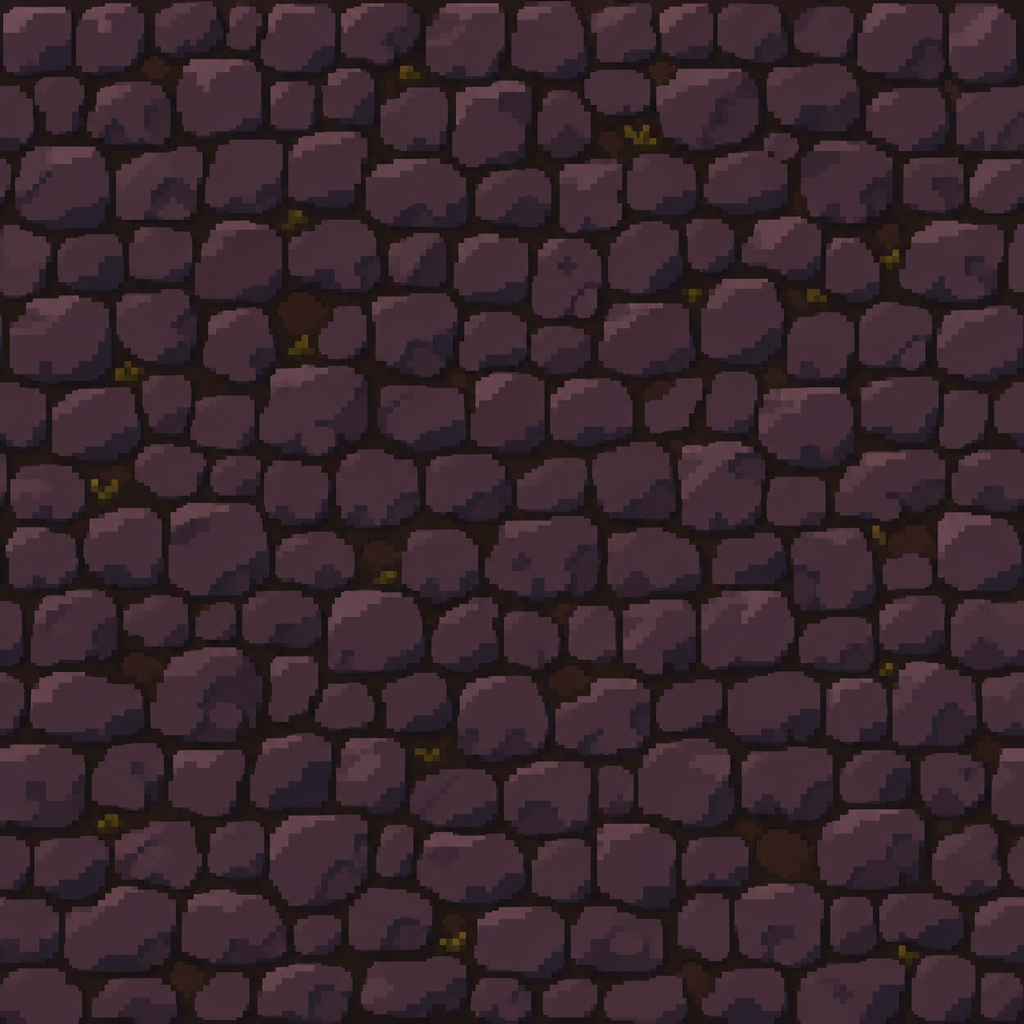
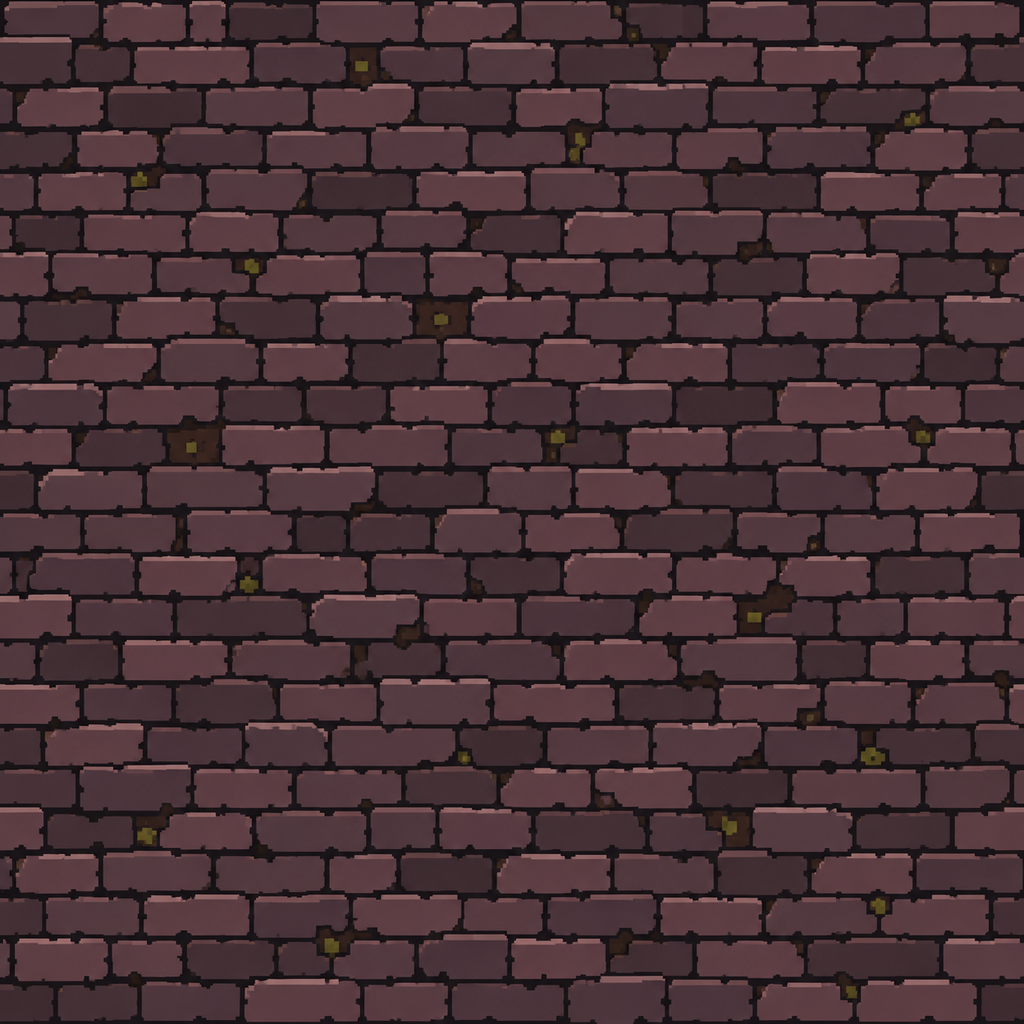
Town polish round: small setts, wall edge, niche candles, neutral shadows, blue altar (task 1005)

diff --git a/live/scene.js b/live/scene.js
@@ -706,9 +706,11 @@ void main(){ vec2 q = v_uv * 2.0 - 1.0; float r = length(q), a = atan(q.y, q.x);
   // the town's lights by kind (TASKS 1005): r, colour, strength, dy over the prop's foot, a hot core, and the glow on the art itself
   // [dx, dy, r, alpha]; warm lanterns and the forge, the enchanter's and the altar's cold blue, the crypt's warm breath from below
   // (a light's centre stays on open floor: inside a wall cell the light map's occlusion swallows it)
-  const TOWN_LIGHT = { lamp: { r: 230, col: [1, 0.76, 0.44], amt: 1.05, dy: -30, core: 60, glow: [6, -36, 16, 0.75] }, forge: { r: 150, col: [1, 0.58, 0.22], amt: 1.0, dy: 8, core: 50, glow: [0, -20, 11, 0.6] },
-    runes: { r: 210, col: [0.3, 0.55, 1], amt: 1.0, dy: 0, core: 80, glow: [0, 8, 46, 0.3] }, altar: { r: 200, col: [0.4, 0.68, 1], amt: 1.2, dy: 12, core: 70 },
-    crypt: { r: 110, col: [1, 0.66, 0.32], amt: 0.5, dy: 22 }, adit: { r: 140, col: [1, 0.76, 0.44], amt: 0.75, dy: -10, glow: [6, -48, 12, 0.7] } };
+  const TOWN_LIGHT = { lamp: { r: 220, col: [1, 0.8, 0.32], amt: 1.25, dy: -30, core: 60, glow: [6, -36, 16, 0.75] }, forge: { r: 170, col: [1, 0.55, 0.18], amt: 1.3, dy: 8, core: 60, glow: [0, -18, 17, 0.85] },
+    runes: { r: 190, col: [0.22, 0.45, 1], amt: 1.5, dy: 0, core: 70, glow: [0, 8, 22, 0.3] }, altar: { r: 170, col: [0.22, 0.48, 1], amt: 1.7, dy: 12, core: 70, glow: [0, -14, 30, 0.3] },
+    crypt: { r: 90, col: [1, 0.66, 0.3], amt: 0.3, dy: 40 }, adit: { r: 140, col: [1, 0.8, 0.32], amt: 0.75, dy: -10, glow: [6, -48, 12, 0.7] }, candle: { r: 90, col: [1, 0.72, 0.36], amt: 0.7, dy: -40, core: 30 } };
+  // the setts are painted lighter than the earth round them: under the fire they read as a pink cross (fidelity r2), so a little darker
+  const PAVE_K = 0.78;
   // rail_tw_h's sleeper period in its own pixels: sleepers start every ≈72 px, the first gap's middle at 77 (live/assets size)
   const RAIL = { w: 300, h: 131, u0: 77 / 300, per: 72 };
   const TOWN_PAVE = (m) => m.town.paveSet || Object.defineProperty(m.town, 'paveSet', { value: new Set(m.town.pave), enumerable: false }).paveSet;
@@ -721,7 +723,7 @@ void main(){ vec2 q = v_uv * 2.0 - 1.0; float r = length(q), a = atan(q.y, q.x);
         for (let v = -1; v <= 1; v++) for (let u = -1; u <= 1; u++) if (P.has((y + v) * m.W + x + u)) d = Math.min(d, Math.hypot(Math.max(x + u - px, 0, px - x - u - 1), Math.max(y + v - py, 0, py - y - v - 1)));
         if (d + 0.45 * rnd(x * 4 + i, y * 4 + j) > 0.55) continue;
         const X = x * TILE + i * q, Y = y * TILE + j * q, u0 = (X % TS) / TS, v0 = (Y % TS) / TS;
-        L.sprite(B.pave, X, Y, { w: q, h: q, src: [u0, v0, u0 + q / TS, v0 + q / TS], u: { grade: [1, 0.96, 0, 1] } }); } }
+        L.sprite(B.pave, X, Y, { w: q, h: q, src: [u0, v0, u0 + q / TS, v0 + q / TS], u: { grade: [1, PAVE_K, 0, 1] } }); } }
     // the rails: one sleeper period of the straight piece (a gap's middle to the next, so it repeats without its end caps) laid
     // edge to edge along the line through the rail cells' centres, turned to each stretch, at the piece's own proportions
     const T = m.town, pts = T.rails.map((k) => [(k % m.W + 0.5) * TILE, (Math.floor(k / m.W) + 0.5) * TILE]), RH = 26, RP = RH * RAIL.per / RAIL.h;
@@ -757,7 +759,7 @@ void main(){ vec2 q = v_uv * 2.0 - 1.0; float r = length(q), a = atan(q.y, q.x);
         const v = c(x, y);
         // an accent zone keeps its own stone, near grey and dark (as dark as the tint it lost made it): the colour proper is its hearths'
         // light and the fill, which fades out past the doorway
-        if (v === 1 && m.town) tile(TOWN_PAVE(m).has(y * m.W + x) ? B.pave : B.floor, x, y, { grade: [1, 0.96, 0, 1], tint: [1, 1, 1, 1] });
+        if (v === 1 && m.town) { const pv = TOWN_PAVE(m).has(y * m.W + x); tile(pv ? B.pave : B.floor, x, y, { grade: [1, pv ? PAVE_K : 0.96, 0, 1], tint: [1, 1, 1, 1] }); }
         else if (v === 1 || v === 3) { const z = zoneAt(m, x, y), Z = D.BIOMES[z]; tile(Z.floor, x, y, { grade: [z === m.biome ? 1 : 0.25, 0.96 * (z === m.biome ? 1 : 0.55 * (Z.dim || 1)), 0, 1], tint: [...Z.tint, z === m.biome ? 1 : 0.35] }); }
         else if (v === 0 && (c(x, y + 1) !== 0 || (c(x, y + 2) !== 0 && c(x, y + 2) !== undefined))) tile(B.wall, x, y, { grade: [0.9, 1.05, 0, 1.05], tint: [B.tint[0], B.tint[1], B.tint[2], 1] }, TSW);
         else if (v === 0 && RD[y * m.W + x] <= 3) tile(B.top, x, y, { grade: [0.55, TOP_LIFT, 0, 1], tint: topTint(B) }, TST);
@@ -784,6 +786,8 @@ void main(){ vec2 q = v_uv * 2.0 - 1.0; float r = length(q), a = atan(q.y, q.x);
           if (face) { dark(X, Y + TILE - 4, TILE, 4, 0.5); for (let k = 0; k < 4; k++) dark(X, Y + TILE - 14 + k * 2.5, TILE, 14 - k * 2.5, 0.06);
             if (c(x - 1, y) === 1 || c(x - 1, y + 1) === 1) dark(X, Y, 3, TILE, 0.7); if (c(x + 1, y) === 1 || c(x + 1, y + 1) === 1) dark(X + TILE - 3, Y, 3, TILE, 0.7); }
           if (face2) { dark(X, Y, TILE, 3, 0.75); L.solid(X, Y + 3, TILE, 1, [0.5, 0.45, 0.42], 0, 0, 0, 0.35);
+            // the town's ruins catch the light on their top course (the concept's slate edge, #81676f)
+            if (m.town) { L.solid(X, Y + 3, TILE, 2, [0.51, 0.4, 0.44], 0, 0, 0, 0.85); L.solid(X, Y + 5, TILE, 2, [0.37, 0.29, 0.33], 0, 0, 0, 0.6); }
             if (c(x - 1, y + 1) === 1) dark(X, Y, 3, TILE, 0.7); if (c(x + 1, y + 1) === 1) dark(X + TILE - 3, Y, 3, TILE, 0.7); }
           if (!face && !face2 && near(x, y, 4)) {
             if (c(x, y + 1) === 1) dark(X, Y + TILE - 3, TILE, 3, 0.6);
@@ -1626,7 +1630,7 @@ void main(){ vec2 q = v_uv * 2.0 - 1.0; float r = length(q), a = atan(q.y, q.x);
     const flick = (i) => 0.85 + 0.1 * Math.sin(t * 9.1 + i * 3.7) + 0.06 * Math.sin(t * 23.3 + i * 1.3);
     // a green fire reaches less far: the crypt is lit in pools, not flooded (TASKS 169); so does a cold hearth on the floor, its
     // near light in its own colour, or a zone's four to six of them wash its floor pale (TASKS 188)
-    const TL = []; m.torches.forEach((tc, i) => { if (hid(tc)) return; const col = torchCol(m, tc), f = flick(i) * (col[2] > col[0] ? 1.35 : 1), big = tc.kind === 'fire', gr = col[1] > col[0] && col[1] > col[2] ? 0.7 : 1;
+    const TL = []; m.torches.forEach((tc, i) => { if (hid(tc)) return; const col = torchCol(m, tc), f = flick(i) * (col[2] > col[0] ? 1.35 : 1) * (B.fireK || 1), big = tc.kind === 'fire', gr = col[1] > col[0] && col[1] > col[2] ? 0.7 : 1;
       const pool = col[0] < 0.5 && tc.kind === 'brazier', pr = (pool ? 0.6 : 1) * (tc.kind === 'brazier' ? 0.8 : 1), pa = (pool ? 0.6 : 1) * (B.cave && tc.kind === 'wall' ? 0.55 : 1);   // a brazier's pool is a fifth smaller: its light fell off too gently (TASKS 193)
       TL.push([tc.x - (tc.side || 0) * 30, tc.y - (tc.side ? 10 : tc.kind === 'wall' ? -10 : 20), (big ? 200 : 220) * gr * pr, col, (big ? 1.5 : 1.15) * f * pa, 3.0]);
       if (col[0] < 0.5) TL.push([tc.x - (tc.side || 0) * 9, tc.y - 14, 70, col.map((v) => 0.3 + 0.7 * v), 2.2 * f, 2.6]);
@@ -1845,7 +1849,8 @@ void main(){ vec2 q = v_uv * 2.0 - 1.0; float r = length(q), a = atan(q.y, q.x);
     // stairs / boss portal
     // the stairs on past the serpent (TASKS 354), beside the portal: dark till it falls
     if (m.down && vis(m.down.x, m.down.y)) { const [w, hh] = SZ('stairs'); L.sprite('stairs', sx(m.down.x) - w / 2, sy(m.down.y) - hh / 2 - 4, { w, h: hh, u: R.bossDead ? undefined : { grade: [0.6, 0.55, 0, 1] } }); }
-    if (vis(m.exit.x, m.exit.y)) { if (m.floor < D.runOf(R.mode).floors) { const [w, hh] = SZ('stairs'); L.sprite('stairs', sx(m.exit.x) - w / 2, sy(m.exit.y) - hh / 2 - 4, { w, h: hh }); } }
+    // the town's crypt gate is a dark mouth between its braziers, not a lit frame (fidelity r2)
+    if (vis(m.exit.x, m.exit.y)) { if (m.floor < D.runOf(R.mode).floors) { const [w, hh] = SZ('stairs'); L.sprite('stairs', sx(m.exit.x) - w / 2, sy(m.exit.y) - hh / 2 - 4, { w, h: hh, u: m.town ? { grade: [0.8, 0.5, 0, 1.1] } : undefined }); } }
     // the start room's bonfire sits in a rune circle
     if (window.ASSETS.sanct_circle && !m.town && vis(m.sanct.x, m.sanct.y)) { const d = 3.4 * TILE; L.sprite('sanct_circle', sx(m.sanct.x) - d / 2, sy(m.sanct.y - 6) - d / 2, { w: d, h: d }); }
     // spike traps: a 2×2-cell plate on the ground; its spikes stand in the Y-sorted band (they have height)

diff --git a/live/dungeon.js b/live/dungeon.js
@@ -1950,11 +1950,13 @@
     benches: [[25, 16], [29, 19], [25, 19]],
     // the town's own lights (TASKS 1005): lanterns in the workshop niches, at the canvas stall, the well, the merchant, the portal and the rails' yard, the forge's coals, the
     // enchanter's runes, the Altar of Souls, the crypt's glow from below; the campfire and the gate's braziers are its torches
-    lights: [['lamp', 8, 13], ['lamp', 8, 19], ['lamp', 9, 25], ['lamp', 48, 9], ['lamp', 11, 20], ['lamp', 21, 7], ['lamp', 19, 24], ['lamp', 14, 28], ['lamp', 31, 31], ['lamp', 39, 28], ['forge', 38, 7], ['runes', 39, 15], ['altar', 36, 21], ['crypt', 27, 8], ['adit', 47, 22]],
+    lights: [['lamp', 8, 13], ['lamp', 8, 19], ['lamp', 9, 25], ['lamp', 48, 9], ['lamp', 11, 20], ['lamp', 21, 7], ['lamp', 19, 24], ['lamp', 14, 28], ['lamp', 31, 31], ['lamp', 39, 28], ['forge', 38, 7], ['runes', 39, 15], ['candle', 40, 14], ['altar', 36, 21], ['crypt', 27, 8], ['adit', 47, 22]],
     // trees in the courtyard's corners against the ruins, as round the reference's edge (beyond the walls the void swallows anything)
     edge: [[6, 8], [50, 8], [51, 14], [5, 14], [5, 27], [50, 30], [8, 30]],
-    // the yard's own props after the reference: the log pile, the canvas stall, the well, the mine's pick rack and cart, the yard's stone and ore
-    props: [['logs_tw', 43, 8], ['stall_tw', 46, 10], ['well_tw', 9, 19], ['picks_tw', 45, 23], ['cart_tw', 49, 24], ['blocks_tw', 19, 29], ['ore_tw', 13, 30]],
+    // the yard's own props after the reference: the log pile, the canvas stall, the well, the mine's pick rack and cart, the yard's stone and ore;
+    // the workshop niches on the left with a work table, sacks, a crate and burning candles
+    props: [['logs_tw', 43, 8], ['stall_tw', 46, 10], ['well_tw', 9, 19], ['picks_tw', 45, 23], ['cart_tw', 49, 24], ['blocks_tw', 19, 29], ['ore_tw', 13, 30],
+      ['table_candles', 6, 14], ['shop_sacks', 5, 21], ['shop_crate', 7, 24], ['candles', 5, 24]],
     rails: [[47, 23], [47, 24], [46, 25], [45, 26], [44, 27], [43, 28], [42, 29], ...Array.from({ length: 25 }, (_, i) => [41 - i, 30])],
     // the townsfolk's places (TASKS 1014–1015 put them there): each at its work, facing it
     npcs: [['smith', 35, 9], ['enchanter', 39, 15], ['keeper', 26, 18], ['porter', 32, 11], ['sweeper', 30, 21], ['miner', 38, 30], ['mason', 18, 29], ['gardener', 43, 24], ['child', 13, 18]],

diff --git a/live/data.js b/live/data.js
@@ -40,8 +40,8 @@
       from: { cultist: 2, skel_ember: 2, brute: 3, fire_priest: 3, salamander: 2, golem: 3 }, props: ['basalt_a', 'basalt_b', 'boulder_mg_a', 'boulder_mg_b', 'skel_mg', 'obsidian_mg', 'banner_mg', 'cage'] },
     // the start town (R-17, TASKS 1002, 1004, 1005): a safe courtyard over the crypt, floor 0 of a run; earth with grass, cobbles on the square
     // and its paths; ambLvl: the open yard is half lit between its fires (the concept's median L ≈ 19, the dungeon's dark is ≈ 11), its fire the
-    // concept's yellow-orange, not the dungeon's red
-    town: { name: 'Город', rock: [0.008, 0.005, 0.008], water: [0.07, 0.1, 0.12], vein: [1.0, 0.4, 0.12, 0], amb: [0.17, 0.15, 0.11], ambK: 0.65, ambLvl: 2.6, torch: [1.0, 0.74, 0.4], floor: 'floor_tw_tex', pave: 'pave_tw_tex', wall: 'wall_tw_tex', top: 'walltop_tw_tex',
+    // concept's yellow-orange, not the dungeon's red; neutral between the pools, so the pools stand out of it; fireK: its fires' strength
+    town: { name: 'Город', rock: [0.008, 0.005, 0.008], water: [0.07, 0.1, 0.12], vein: [1.0, 0.4, 0.12, 0], amb: [0.15, 0.14, 0.15], ambK: 0.65, ambLvl: 2.4, fireK: 0.85, torch: [1.0, 0.78, 0.26], floor: 'floor_tw_tex', pave: 'pave_tw_tex', wall: 'wall_tw_tex', top: 'walltop_tw_tex',
       tint: [1, 1, 1], roster: [], props: [], town: true },
   };
 

diff --git a/TASKS_COMPLETED.md b/TASKS_COMPLETED.md
@@ -685,7 +685,7 @@
 
 1004. ✅ **[А]** Ассеты города по принятому рефу (1001): пол площади и улиц, стены и фасады построек, пропсы служб (прилавок, наковальня, горн, стойка зачарователя, доска заданий, костёр, колодец, телеги, бочки, лавки), декали; промпты в `art/prompts/`, генерация `gen.py batch`, нарезка и `prep.py`, размеры в `live/sizes.js`; критик ассетов и сверка с рефом. Цепочка «по рецепту» (генерация, `prep.py`, `slice.py`) — подагент Sonnet 5.5 low. Объём L. Из R-17. → Сделано: промпты `art/prompts/floor_tw_tex.txt`, `pave_tw_tex.txt`, `wall_tw_tex.txt`, `walltop_tw_tex.txt`, листы `town_svc_sheet.txt`, `town_yard_sheet.txt`, `town_big_sheet.txt`, `town_floor_sheet.txt` (задания — `jobs_1004.json`; рефы — кропы концепта группами `art/raw/town_ref_*.png` и пропсы игры рядом с героем в их игровом размере `art/raw/town_scale_ref.png`). Генерация, нарезка, `prep.py` и перекраска — подагент Sonnet 5.5 low. 33 ассета: текстуры земли с травой, мостовой, лица и верха стен руин; наковальня, горн, кафедра зачарователя, полка с колбами, доска заданий, рудный ящик, скамья, поленница, грядка, вагонетка, стойка с кирками, тёсаные блоки, кольцо костра, куча руды, дерево, навес торговца, ларёк под холстом, колодец, штольня, два стоячих камня; диск портала, рунный круг, рельсы, декали травы, цветов и листьев. В игре: биом `town` с текстурами города (`data.js`), мостовая на площади и дорожках к службам (`TOWN.pave`) с рваным краем по 8 px в землю, рельсы — период шпал прямого куска, уложенный вдоль линии рельсовых клеток с поворотом на каждом отрезке, диск портала и рунный круг под кафедрой (`scene.js: townFloor`), костёр в каменном кольце, пропсы служб и двора в плане `TOWN` (`role` у каждого), высоты в `sizes.js`. Критик ассетов r1 (`study/critique/town_assets_r1.md`): 6,5/10, принято большинство пропсов; исправлено: рельсы рвались и сплющивались (теперь непрерывны, в своих пропорциях), костёр 30 → 42 px, синеватый камень блоков и кольца костра перекрашен в сланец рефа, скамья и поленница темнее, земля перегенерирована (не рыжая, травы ≈четверть), полка 80 → 68 px, диск и руны меньше. Осталось на решение игрока: навес торговца 84 px — выше правила 64–70, но торговец сам 78 px, и навес ниже него не читается; мостовая из круглых булыжников, а на концепте прямоугольные камни. На 1005: горн без огня похож на колодец — его отличит свет горна. `tune.cjs` и `qa.mjs` (424 состояния, 42 цикла) проходят.
 
-1005. ✅ **[С]** Облик и свет города: освещение биома `town` (тёплый ambient, костёр, горны, лампы окон, синее свечение зачарователя), без тумана войны (весь город виден сразу), запечённый пол и стены, фон за краем карты, вход в крипту как тёмный провал с тёплым отсветом; рендер остаётся чистой функцией `(t, state)`, огни — от событий и данных, не от состояния рендера; сверка по `zone_town`. Объём M. Из R-17. → Сделано: свет города — данные: `TOWN.lights` в `dungeon.js` (`m.town.lights`: фонари в нишах мастерских, у ларька, колодца, торговца, портала и во дворе с рельсами; угли горна; руны зачарователя; Алтарь душ; отсвет из крипты; фонарь штольни), виды и цвета — `TOWN_LIGHT` в `scene.js` (центр света — на открытом полу, внутри стены его съедает окклюзия), пульс от часов `t`; фонари — пропсы `shop_lantern`. Биом `town`: эмбиент тёплый и выше подземельного (`ambLvl` — множитель уровня эмбиента, `data.js`), огонь жёлто-оранжевый 01a, а не красный подземелья. Тумана войны в городе нет (1002). Пол и стены запечены из текстур города с мостовой (1004); деревья — по углам двора (за стенами пустота съедает всё). Скала шахты тоньше: её сердцевина уходила в пустоту и чернела дырой. Критик сверки r1 (`study/critique/town_fidelity_r1.md`): не принят — двор почти чёрный (медиана L 10,7 против 18,8 у концепта), свет слишком красный, алтарь без синего, нижний двор и портал без света, пересвеченный горн, сфера света без источника у торговца. Исправлено: медиана L на `town_services` 19,4 против 19,9 у `ref_town.png`, доля L < 15 — 32 % против 37 %, тени a 7,2 / b 5,8 против 4,1 / 2,5, полутона a 12,1 / b 10,4 против 9,9 / 9,1; синий у алтаря, фонари у портала и во дворе, горн — только угли, лишняя сфера убрана. Остатки на следующие раунды (ждут решения игрока): мало светлых тонов L 30–50 (16 % против 22 %); булыжник мостовой вдвое крупнее и круглый (на концепте мелкие прямоугольные камни) — нужна новая текстура; верхняя кромка стен без светлого края; ниши мастерских слева пустые. `tune.cjs` и `qa.mjs` (424 состояния, 42 цикла) проходят.
+1005. ✅ **[С]** Облик и свет города: освещение биома `town` (тёплый ambient, костёр, горны, лампы окон, синее свечение зачарователя), без тумана войны (весь город виден сразу), запечённый пол и стены, фон за краем карты, вход в крипту как тёмный провал с тёплым отсветом; рендер остаётся чистой функцией `(t, state)`, огни — от событий и данных, не от состояния рендера; сверка по `zone_town`. Объём M. Из R-17. → Сделано: свет города — данные: `TOWN.lights` в `dungeon.js` (`m.town.lights`: фонари в нишах мастерских, у ларька, колодца, торговца, портала и во дворе с рельсами; угли горна; руны зачарователя; Алтарь душ; отсвет из крипты; фонарь штольни), виды и цвета — `TOWN_LIGHT` в `scene.js` (центр света — на открытом полу, внутри стены его съедает окклюзия), пульс от часов `t`; фонари — пропсы `shop_lantern`. Биом `town`: эмбиент тёплый и выше подземельного (`ambLvl` — множитель уровня эмбиента, `data.js`), огонь жёлто-оранжевый 01a, а не красный подземелья. Тумана войны в городе нет (1002). Пол и стены запечены из текстур города с мостовой (1004); деревья — по углам двора (за стенами пустота съедает всё). Скала шахты тоньше: её сердцевина уходила в пустоту и чернела дырой. Критик сверки r1 (`study/critique/town_fidelity_r1.md`): не принят — двор почти чёрный (медиана L 10,7 против 18,8 у концепта), свет слишком красный, алтарь без синего, нижний двор и портал без света, пересвеченный горн, сфера света без источника у торговца. Исправлено: медиана L на `town_services` 19,4 против 19,9 у `ref_town.png`, доля L < 15 — 32 % против 37 %, тени a 7,2 / b 5,8 против 4,1 / 2,5, полутона a 12,1 / b 10,4 против 9,9 / 9,1; синий у алтаря, фонари у портала и во дворе, горн — только угли, лишняя сфера убрана. Остатки на следующие раунды (ждут решения игрока): мало светлых тонов L 30–50 (16 % против 22 %); булыжник мостовой вдвое крупнее и круглый (на концепте мелкие прямоугольные камни) — нужна новая текстура; верхняя кромка стен без светлого края; ниши мастерских слева пустые. `tune.cjs` и `qa.mjs` (424 состояния, 42 цикла) проходят. → **Раунд полировки (решение игрока: ещё раунд; навес торговца 84 px — принятое исключение из правила высоты; дерево у костра пока 70 px, игрок проверит в игре).** Новая мостовая из мелких прямоугольных камней (`pave_tw_tex`, ≈14×11 px в масштабе рефа), у стен руин светлая верхняя кромка (#81676f), в нишах мастерских стол со свечами, мешки, ящик, горящие свечи, у кафедры зачарователя тёплая свеча. Критик сверки r2 (`study/critique/town_fidelity_r2.md`; оси 8/7/5/5/5/6 против 8/7/4/4/5/5 в r1): светло, но свет стал плоским и рыжим, пятно костра пересвечено, у горна нет огня, синий у алтаря и рун пропал, рамка входа в крипту светится. Исправлено: эмбиент нейтральный (`amb`), огни города слабее (`fireK`) и желтее, мостовая чуть темнее (`PAVE_K`), горн — пятно углей, синий у алтаря и рун сильнее и холоднее, вход в крипту — тёмный провал (рамка затемнена, отсвет ниже). Замер `town_services` против `ref_town.png`: медиана L 19,4 / 19,9, доля L < 15 — 33 % / 37 %, тени a 7,1 b 2,2 / a 4,1 b 2,5, L 30–50 — 16 % / 22 %, L ≥ 50 — 4 % / 10 %. Остатки: светлых тонов всё ещё меньше, полутона холоднее концепта (b 5,6 против 9,1), тени чуть краснее (от текстур земли). `tune.cjs` и `qa.mjs` (424 состояния, 42 цикла) проходят.
 
 ## Развитие игры
 
